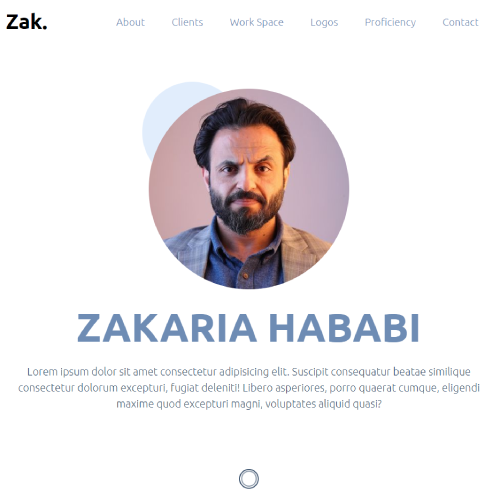
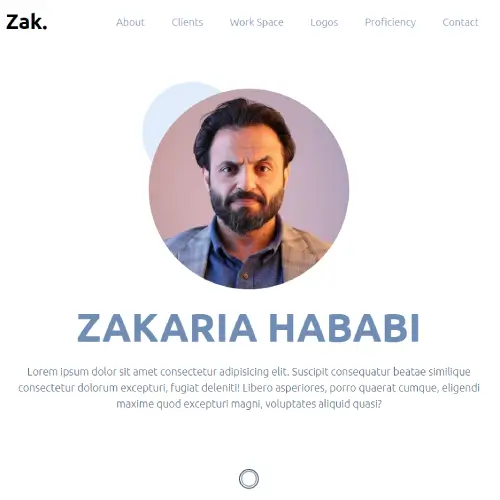
perf: compress projects images and convert davin-salla image to webp

diff --git a/index.html b/index.html
@@ -164,7 +164,7 @@
       <div class="works grid grid-t-c gap-3-rem" data-value="works">
         <div class="work" data-aos="fade-up">
           <a href="https://davin.store">
-            <img src="./imgs/modifying websites/davin salla.png" alt="davin.store" />
+            <img src="./imgs/modifying websites/davin-salla.webp" alt="davin.store" />
           </a>
         </div>
       </div>
